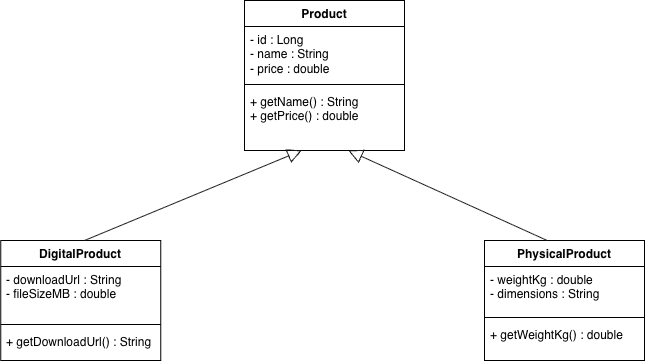
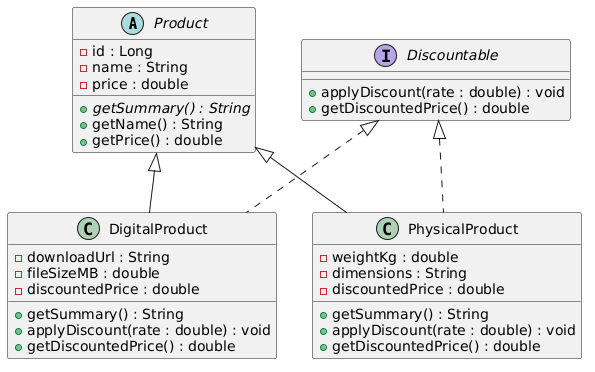
Tutorial 5, updated

diff --git a/products-api/src/main/java/uk/ac/westminster/products_api/PhysicalProduct.java b/products-api/src/main/java/uk/ac/westminster/products_api/PhysicalProduct.java
@@ -2,10 +2,11 @@ package uk.ac.westminster.products_api;
 
 // A PhysicalProduct IS-A Product because it has the shared properties of every product.
 // A ShoppingCart is not a Product because it contains products rather than being one.
-public class PhysicalProduct extends Product {
+public class PhysicalProduct extends Product implements Discountable {
 
     private double weightKg;
     private String dimensions;
+    private double discountedPrice;
 
     // Empty constructor for JSON deserialization
     public PhysicalProduct() {
@@ -26,6 +27,23 @@ public class PhysicalProduct extends Product {
 
     public String getDimensions() {
         return dimensions;
+    }
+
+    @Override
+    public String getSummary(){
+        return "Physical: " +  getName() + " | Weight: " + weightKg + " kg";
+    }
+    //overrides the generic getSummary() method inherited from Product
+
+    @Override
+    public void applyDiscount (double rate){
+        double capped = Math.min(rate, 0.29);
+        this.discountedPrice = getPrice() * (1-capped);
+    }
+
+    @Override
+    public double getDiscountedPrice(){
+        return discountedPrice;
     }
 }
 

diff --git a/products-api/src/main/java/uk/ac/westminster/products_api/DigitalProduct.java b/products-api/src/main/java/uk/ac/westminster/products_api/DigitalProduct.java
@@ -1,10 +1,11 @@
 package uk.ac.westminster.products_api;
 
 
-public class DigitalProduct extends Product {
+public class DigitalProduct extends Product implements Discountable {
 
     private String downloadUrl;
     private double fileSizeMB;
+    private double discountedPrice;
 
     // Empty constructor
     public DigitalProduct() {
@@ -25,5 +26,20 @@ public class DigitalProduct extends Product {
 
     public double getFileSizeMB() {
         return fileSizeMB;
+    }
+
+    @Override
+    //tells java that this method overrides a method inherited from Product
+    public String getSummary(){
+        return "Digital: " + getName() + " | Download: " +downloadUrl;
+    }
+
+    @Override
+    public void applyDiscount(double rate){
+        this.discountedPrice = getPrice() * (1-rate);
+    }
+    @Override
+    public double getDiscountedPrice(){
+        return discountedPrice;
     }
 }

diff --git a/products-api/src/main/java/uk/ac/westminster/products_api/ProductController.java b/products-api/src/main/java/uk/ac/westminster/products_api/ProductController.java
@@ -22,13 +22,17 @@ public class ProductController {
         return productService.getAllProducts();
     }
 
+    @GetMapping ("/products/summaries")
+    public List<String> getSummaries(){ return productService.getAllSummaries(); }
+
     @GetMapping("/products/{id}")
     public Product getProductById(@PathVariable Long id) {
         return productService.getProductById(id).orElse(null);
     }
 
+    // Accept DigitalProduct because Product is abstract and cannot be instantiated directly.
     @PostMapping("/products")
-    public Product addProduct(@RequestBody Product product) {
+    public Product addProduct(@RequestBody DigitalProduct product) {
         return productService.addProduct(product);
     }
 
@@ -41,6 +45,8 @@ public class ProductController {
     public List<Product> search(@RequestParam String name) {
         return productService.findByName(name);
     }
+
+
 
 
 

diff --git a/products-api/src/main/java/uk/ac/westminster/products_api/Product.java b/products-api/src/main/java/uk/ac/westminster/products_api/Product.java
@@ -1,6 +1,6 @@
 package uk.ac.westminster.products_api;
 
-public class Product {
+public abstract class Product {
 
     // Private fields - encapsulation
     private Long id;
@@ -43,5 +43,7 @@ public class Product {
     public void setPrice(double price) {
         this.price = price;
     }
+//an abstract method has no body, each concrete subclass must provide it's own implementation
+    public abstract String getSummary();
 
 }

diff --git a/products-api/src/main/java/uk/ac/westminster/products_api/ProductService.java b/products-api/src/main/java/uk/ac/westminster/products_api/ProductService.java
@@ -50,6 +50,15 @@ public class ProductService {
         ));
     }
 
+    public List<String> getAllSummaries(){
+        List<String> summaries =  new ArrayList<>();
+
+        for (Product p : products){
+            summaries.add(p.getSummary());
+        }
+        return summaries;
+    }
+
 
 
 

diff --git a/products-api/src/main/java/uk/ac/westminster/products_api/Discountable.java b/products-api/src/main/java/uk/ac/westminster/products_api/Discountable.java
@@ -1,0 +1,6 @@
+package uk.ac.westminster.products_api;
+
+public interface Discountable {
+    void applyDiscount(double rate);
+    double getDiscountedPrice();
+}
